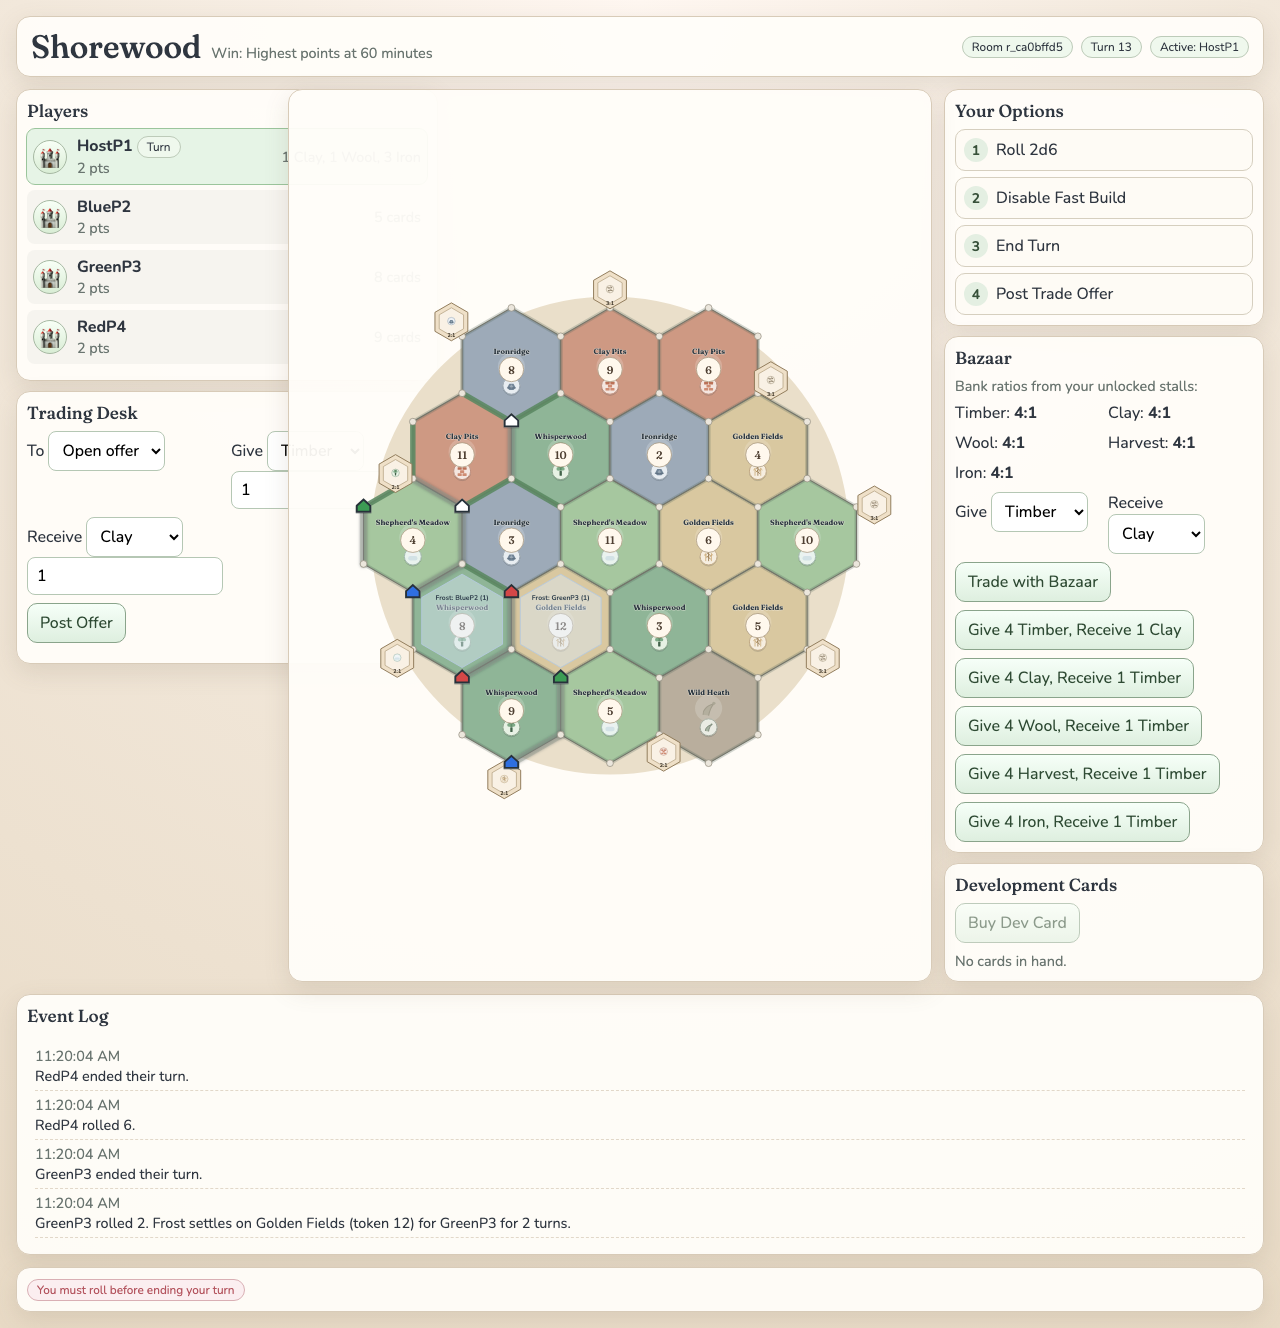
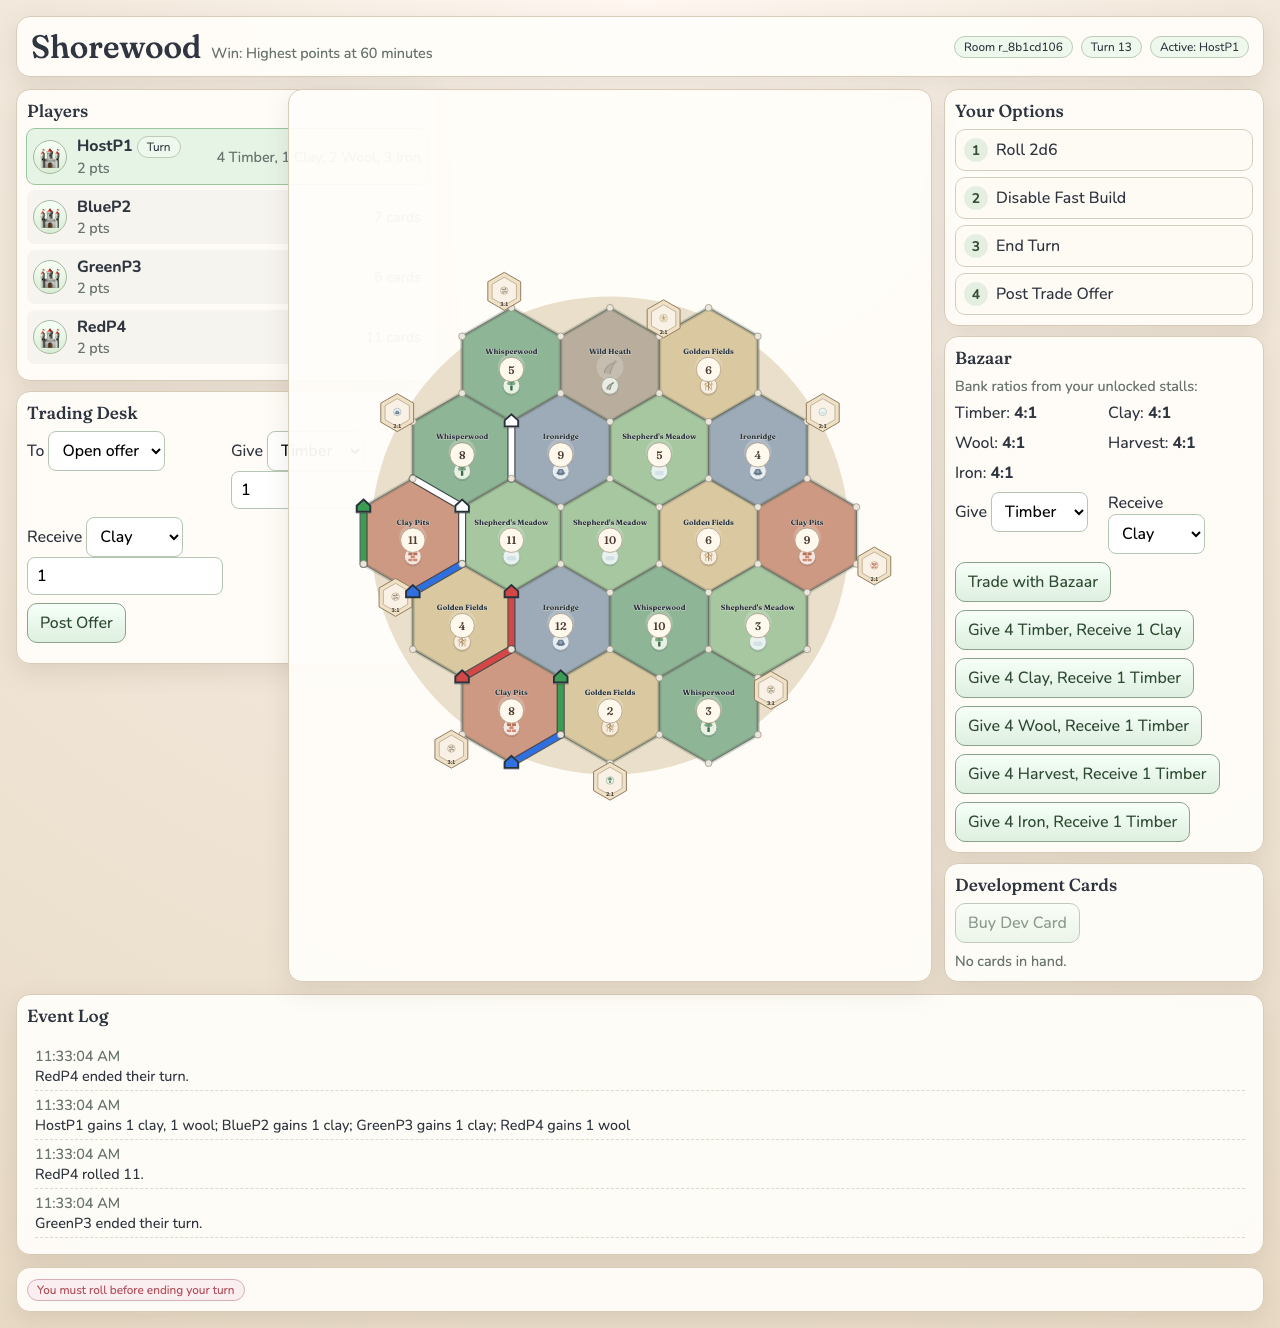
Fix trail color rendering and tighten trail placement legality

diff --git a/packages/core/test/engine.test.js b/packages/core/test/engine.test.js
@@ -156,15 +156,46 @@ describe("engine rules", () => {
   test("manor fast-build targets are hidden until main phase roll is completed", () => {
     const state = createMatch();
     forceVoteToFirstToTen(state);
-    expect(getFastBuildTargets(state, "p1").manors).toEqual([]);
+    const setupTargets = getFastBuildTargets(state, "p1");
+    expect(setupTargets.manors).toEqual([]);
+    expect(setupTargets.trails).toEqual([]);
+    expect(setupTargets.cottages.length).toBeGreaterThan(0);
 
     completeSnakeSetup(state);
     const activePlayerId = state.turn.order[state.turn.index];
-    expect(getFastBuildTargets(state, activePlayerId).manors).toEqual([]);
+    expect(getFastBuildTargets(state, activePlayerId)).toEqual({ trails: [], cottages: [], manors: [] });
 
     const [d1, d2] = pickDiceForTotal(6);
     rollDice(state, activePlayerId, 1_900, rngForDice(d1, d2));
     expect(getFastBuildTargets(state, activePlayerId).manors.length).toBeGreaterThan(0);
+  });
+
+  test("rejects disconnected trail placements in main phase", () => {
+    const state = createMatch();
+    forceVoteToFirstToTen(state);
+    completeSnakeSetup(state);
+
+    const activePlayerId = state.turn.order[state.turn.index];
+    state.players[activePlayerId].resources = {
+      timber: 5,
+      clay: 5,
+      wool: 0,
+      harvest: 0,
+      iron: 0
+    };
+
+    const [d1, d2] = pickDiceForTotal(6);
+    rollDice(state, activePlayerId, 1_930, rngForDice(d1, d2));
+
+    const legalTrails = new Set(getFastBuildTargets(state, activePlayerId).trails);
+    expect(legalTrails.size).toBeGreaterThan(0);
+
+    const disconnected = state.board.edges
+      .map((edge) => edge.id)
+      .find((edgeId) => !legalTrails.has(edgeId) && !state.structures.edges[edgeId]);
+
+    expect(Boolean(disconnected)).toBe(true);
+    expect(() => buildTrail(state, activePlayerId, disconnected, 1_931)).toThrow(/Illegal trail placement/);
   });
 
   test("grants one starting resource per producing hex for each setup cottage (up to 6 total before first roll)", () => {

diff --git a/packages/core/src/engine.js b/packages/core/src/engine.js
@@ -1092,11 +1092,27 @@ export function getLegalActions(state, playerId) {
 
 export function getFastBuildTargets(state, playerId) {
   const player = getPlayer(state, playerId);
-  const canUpgradeManor = state.phase === "main" && state.turn?.rolled;
+
+  if (state.phase === "setup") {
+    const step = currentSetupStep(state);
+    if (!step || step.playerId !== playerId) {
+      return { trails: [], cottages: [], manors: [] };
+    }
+    return {
+      trails: step.type === "trail" && player.pieces.trailsRemaining > 0 ? legalTrailTargets(state, playerId) : [],
+      cottages: step.type === "cottage" && player.pieces.cottagesRemaining > 0 ? legalCottageTargets(state, playerId) : [],
+      manors: []
+    };
+  }
+
+  if (state.phase !== "main" || getActivePlayerId(state) !== playerId || !state.turn?.rolled) {
+    return { trails: [], cottages: [], manors: [] };
+  }
+
   return {
     trails: player.pieces.trailsRemaining > 0 ? legalTrailTargets(state, playerId) : [],
     cottages: player.pieces.cottagesRemaining > 0 ? legalCottageTargets(state, playerId) : [],
-    manors: canUpgradeManor && player.pieces.manorsRemaining > 0 ? legalManorTargets(state, playerId) : []
+    manors: player.pieces.manorsRemaining > 0 ? legalManorTargets(state, playerId) : []
   };
 }
 

diff --git a/apps/client/src/main.js b/apps/client/src/main.js
@@ -787,9 +787,24 @@ function renderBoard(gameState) {
             const owner = gameState.structures.edges[edge.id];
             const isHighlighted = highlightTrails.has(edge.id);
             const color = owner ? getPlayerStyle(owner).trail : "#6a766f";
+            if (owner) {
+              return `
+                <g>
+                  <line
+                    class="edge-owned-outline"
+                    x1="${a.x}" y1="${a.y}" x2="${b.x}" y2="${b.y}"
+                  />
+                  <line
+                    class="edge owned"
+                    x1="${a.x}" y1="${a.y}" x2="${b.x}" y2="${b.y}"
+                    style="stroke:${color};"
+                  />
+                </g>
+              `;
+            }
             return `
               <line
-                class="edge ${owner ? "owned" : ""} ${isHighlighted ? "highlight" : ""}"
+                class="edge ${isHighlighted ? "highlight" : ""}"
                 x1="${a.x}" y1="${a.y}" x2="${b.x}" y2="${b.y}"
                 stroke="${color}"
                 data-edge-id="${edge.id}"

diff --git a/apps/client/src/styles.css b/apps/client/src/styles.css
@@ -219,11 +219,19 @@ select {
   cursor: pointer;
 }
 
+.edge-owned-outline {
+  stroke: rgba(31, 39, 48, 0.72);
+  stroke-width: 12;
+  stroke-linecap: round;
+  pointer-events: none;
+}
+
 .edge.owned {
-  stroke-width: 11;
+  stroke-width: 8.5;
   stroke-linecap: round;
   opacity: 1;
-  filter: drop-shadow(0 0 1px rgba(247, 241, 230, 0.92)) drop-shadow(0 0 2.4px rgba(37, 48, 56, 0.7));
+  filter: none;
+  pointer-events: none;
 }
 
 .intersection {

diff --git a/progress.md b/progress.md
@@ -102,3 +102,12 @@ Original prompt: Build a cozy cottagecore medieval 2D real-time multiplayer brow
 - Artifacts generated:
   - `/Users/Naitik/Python/Shorewood/output/web-game/four-player-after-3-turns.png`
   - `/Users/Naitik/Python/Shorewood/output/web-game/four-player-pass-summary.json`
+- Fixed trail color rendering mismatch root cause: CSS `.edge` stroke was overriding SVG `stroke` presentation attributes on owned trails.
+  - Updated owned trail line to use inline style (`style="stroke:..."`) so player color is authoritative.
+- Tightened fast-build target logic (`getFastBuildTargets`) so build highlights only appear for truly legal build windows:
+  - setup: only current player and current step type
+  - main: only active player after roll
+  - otherwise no build targets
+- Added regression rule test for disconnected trail rejection in main phase.
+- Re-ran 4-player comprehensive pass and captured updated screenshot with clearly matching trail/structure player colors:
+  - `/Users/Naitik/Python/Shorewood/output/web-game/four-player-after-3-turns.png`
